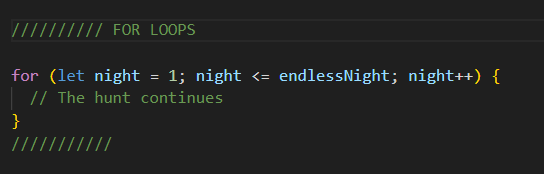
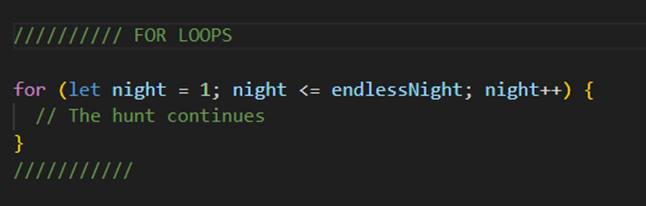
Adds entry for Sprint 3 Technical Blog

diff --git a/blog/Sprint-3-Technical-Blog.html b/blog/Sprint-3-Technical-Blog.html
@@ -1,0 +1,196 @@
+<!DOCTYPE html>
+<html lang="en">
+  <head>
+    <meta charset="utf-8" />
+    <meta name="viewport" content="width=device-width, initial-scale=1.0" />
+    <link rel="stylesheet" type="text/css" href="../styles/style.css" />
+  </head>
+
+  <body>
+    <div>
+      <h1 class="page-title">JavaScript, HTML & CSS</h1>
+    </div>
+
+    <main class="box-flex">
+      <div class="box-border-left">
+        <h2 class="box-h1">README.TXT</h2>
+        <h3>
+          How do HTML, CSS & JavaScript interact, what the heck is the DOM?
+        </h3>
+        <p>
+          The easiest way to understand these is the classic "model tree"
+          analogy; whereby the HTML is the trunk, branches and leaves, the CSS
+          sheet is the colour of the leaves, the texture of the bark and
+          JavScript is the ability to modify the model without having to
+          disassemble and re-assemble it. But surely, in order to modify the
+          model tree (imagine it's a 1:1 scale) you'll need a some instructions
+          and a ladder? This is the DOM. The DOM (Document Object Model) is a
+          web API (Application Programming Interface), and although the ladder
+          analogy doesn't exactly line up with what an API actually is, as far
+          as javaScript and what I've learnt in Sprint 3 are concerned, it
+          works... kinda
+        </p>
+        <h3>Surely there is a better analogy?</h3>
+        <p>
+          A more interesting way to understand these concepts of web development
+          is through the esoteric lore of Bloodborne. HTML is a structure, like
+          the foundations and structure of Yharnam. It forms the streets,
+          buildings, bridges and ladders - the bones of the city. HTML similarly
+          creates the structure of web pages, creating the framework for text,
+          images and paragraphs. Just as the Cathedral stands tall amongst the
+          spires of Yharnam, so do the headers within the midst of the
+          html.index. CSS is used to style the bare bones of HTML, layering over
+          a mesh of layouts, fonts and colours. Similarly the Moon which hangs
+          over Yharnam dresses the city is shadow and light, with hues of blood
+          red and ghostly white.
+        </p>
+
+        <img
+          src="/assets/images/sprint-3/bloodborne-images/DALL·E 2024-04-06 14.11.38 - Envision a gothic, eldritch city under a perpetual night sky, illuminated only by the dim light of the moon and sparse, flickering lampposts. The arch.png"
+          alt="City of Yharnam or a Webpage?"
+        />
+
+        <p>
+          JavaScript allows users to interact with web pages, to respond and
+          change to different actions. This is akin to the Eldritch Truth
+          provided by the growing insight of the Hunter (coder), that causes
+          statues in the Healing Church garden to whisper secrets and awaken
+          slumbering Elder Gods, transforming Yharnam from a nightmare into...
+          an even worse nightmare.
+        </p>
+
+        <img
+          src="/assets/images/sprint-3/bloodborne-images/DALL·E 2024-04-06 17.06.51 - Inside the imposing, gothic interior of the Grand Cathedral from Bloodborne, a figure clearly identifiable as the Hunter, wearing the iconic Hunter's .png"
+          alt="Knowing too much JavaScript"
+        />
+
+        <p>
+          The DOM encompasses the entire structure of a webpage, including its
+          HTML (the architecture of Yharnam), CSS (the aesthetic of the Dream),
+          and JavaScript (the eldritch truth). It is a living model of the
+          webpage, where each element exists as a node in a larger, dynamic
+          network. In this realm, the hunters (or web developers) have the power
+          to interact with and modify the environment. A change to an element
+          within the DOM can ripple through the Dream, altering the appearance
+          of Yharnam (CSS changes), restructuring the streets and edifices (HTML
+          modifications), or awakening unseen forces to action (JavaScript
+          functions). The DOM is the medium through which the coders(hunters)
+          perceive and influence the webpage(world), a reflection that can be
+          transformed through their coding skill (will and insight).
+        </p>
+
+        <img
+          src="/assets/images/sprint-3/bloodborne-images/DALL·E 2024-04-06 14.13.35 - Illustrate the abstract concept of the Hunter's Insight in Bloodborne, a symbolic representation of the character's depth of understanding and percept.png"
+          alt="The Hunter gains insight into the DOM"
+        />
+        <h3>The Hunter's Choice and Flow Control</h3>
+        <p>
+          Flow control is is all about decisions, deciding whether or not a
+          certain section of code should be executed or not. Imagine you are
+          standing at a lantern lit crossroads in Yharnam; to your left, the
+          pathway to Yahar Gul, on your right lies Old Yharnam, by applying the
+          ancient knowledge of if-else conditionals.
+        </p>
+
+        <img
+          src="/assets/images/sprint-3/code-images/Screenshot 2024-04-06 174228.png"
+          alt="Flow control image"
+        />
+        <p>
+          Sometimes you will need to consider a multiplicity of conditionals,
+          ensuring that the right code is executed depending on the right
+          circumstance. Thus when the Hunter faces his foes, he must choose
+          which weapon to wield, this is how we use Switch statements in
+          javaScript
+        </p>
+
+        <img
+          src="/assets/images/sprint-3/code-images/Screenshot 2024-04-06 174517.png"
+          alt="Switch Statement image"
+        />
+
+        <h3>Loops, The Endless Hunt</h3>
+        <p>
+          The hunt in Yharnam is continuous and cyclical, similar to a for loop
+          in JavaScript. Just as a hunter revisits the same dark alleys,
+          battling through waves of beasts night after night, a for loop
+          iterates over a block of code a specified number of times. Loops are
+          powerful tools for effectively handling repetitive tasks that depend
+          upon the fulfillment of specific conditions.
+        </p>
+
+        <img
+          src="/assets/images/sprint-3/code-images/Screenshot 2024-04-06 174552.png"
+          alt="Loops code image"
+        />
+        <h3>Arrays, Objects = Arsenals, Bestiaries</h3>
+        <p>
+          Arrays are simple lists of items arrayed from left to right and
+          assigned positions/index from 0 upwards, meaning the first item in an
+          array is indexed as 0 and the third is 2. The Hunter's arsenal is
+          similar to an Array, each item is placed within a certain slot within
+          the hunter's itinerary, ready to be cycled through when needed.
+          Objects in JavaScript are collections if key-value pairs, in this way
+          they are similar to the Hunter's Bestiary, where each entry contains
+          the details of a beast's domain and it's weakness.
+        </p>
+
+        <img
+          src="/assets/images/sprint-3/code-images/Screenshot 2024-04-06 174711.png"
+          alt="Array and Object image"
+        />
+
+        <h3>Functions and Tools</h3>
+        <p>
+          Functions enable coders to define a block of code which can be called
+          and executed whenever we want. Functions are similar to the Hunter's
+          Tools, within which are contained certain eldritch powers which when
+          called upon provide the hunter with powerful aids in the hunt.
+        </p>
+
+        <img
+          src="/assets/images/sprint-3/code-images/Screenshot 2024-04-06 174735.png"
+          alt="Functions and tools image"
+        />
+      </div>
+      <nav class="box-border-right">
+        <h2 class="box-h1">NAVIGATION</h2>
+        <button
+          type="button"
+          class="box-button"
+          onclick="window.location.href = '../index.html'"
+        >
+          HOME
+        </button>
+        <button
+          type="button"
+          class="box-button"
+          onclick="window.location.href = 'Sprint-1-Identity-Values.html'"
+        >
+          Identity-Values
+        </button>
+        <button
+          type="button"
+          class="box-button"
+          onclick="window.location.href = 'Sprint-2-Learning-Plan.html'"
+        >
+          Learning-Plan
+        </button>
+        <button
+          type="button"
+          class="box-button"
+          onclick="window.location.href = 'Sprint-2-Technical-Blog.html'"
+        >
+          Technical-Blog
+        </button>
+        <button
+          type="button"
+          class="box-button"
+          onclick="window.location.href = 'te-houtaewa-template.html'"
+        >
+          te-houtaewa
+        </button>
+      </nav>
+    </main>
+  </body>
+</html>

diff --git a/blog/te-houtaewa-template.html b/blog/te-houtaewa-template.html
@@ -3,6 +3,7 @@
   <head>
     <title>Stories and Legends</title>
     <meta charset="UTF-8" />
+    <meta name="viewport" content="width=device-width, initial-scale=1.0" />
     <link rel="stylesheet" type="text/css" href="../styles/style.css" />
   </head>
 
@@ -76,6 +77,14 @@
           onclick="window.location.href = 'Sprint-2-Technical-Blog.html'"
         >
           Technical-Blog
+        </button>
+
+        <button
+          type="button"
+          class="box-button"
+          onclick="window.location.href = 'Sprint-3-Technical-Blog.html'"
+        >
+          JavaScript
         </button>
       </nav>
     </main>

diff --git a/index.html b/index.html
@@ -60,6 +60,14 @@
         >
           te-houtaewa
         </button>
+
+        <button
+          type="button"
+          class="box-button"
+          onclick="window.location.href = 'blog/Sprint-3-Technical-Blog.html'"
+        >
+          JavaScript
+        </button>
       </div>
     </main>
   </body>

diff --git a/blog/Sprint-1-Identity-Values.html b/blog/Sprint-1-Identity-Values.html
@@ -117,6 +117,14 @@
         >
           te-houtaewa
         </button>
+
+        <button
+          type="button"
+          class="box-button"
+          onclick="window.location.href = 'Sprint-3-Technical-Blog.html'"
+        >
+          JavaScript
+        </button>
       </nav>
     </main>
   </body>

diff --git a/blog/Sprint-2-Learning-Plan.html b/blog/Sprint-2-Learning-Plan.html
@@ -133,6 +133,14 @@
         >
           te-houtaewa
         </button>
+
+        <button
+          type="button"
+          class="box-button"
+          onclick="window.location.href = 'Sprint-3-Technical-Blog.html'"
+        >
+          JavaScript
+        </button>
       </nav>
     </main>
   </body>

diff --git a/blog/Sprint-2-Technical-Blog.html b/blog/Sprint-2-Technical-Blog.html
@@ -90,6 +90,14 @@
         >
           te-houtaewa
         </button>
+
+        <button
+          type="button"
+          class="box-button"
+          onclick="window.location.href = 'Sprint-3-Technical-Blog.html'"
+        >
+          JavaScript
+        </button>
       </nav>
     </main>
   </body>

diff --git a/styles/style.css b/styles/style.css
@@ -92,3 +92,11 @@ p {
     margin: 0px 0px 8px 0px;
   }
 }
+
+img {
+  max-width: 100%;
+  height: auto;
+  display: block;
+  margin: 0 auto;
+  padding: 15px;
+}
